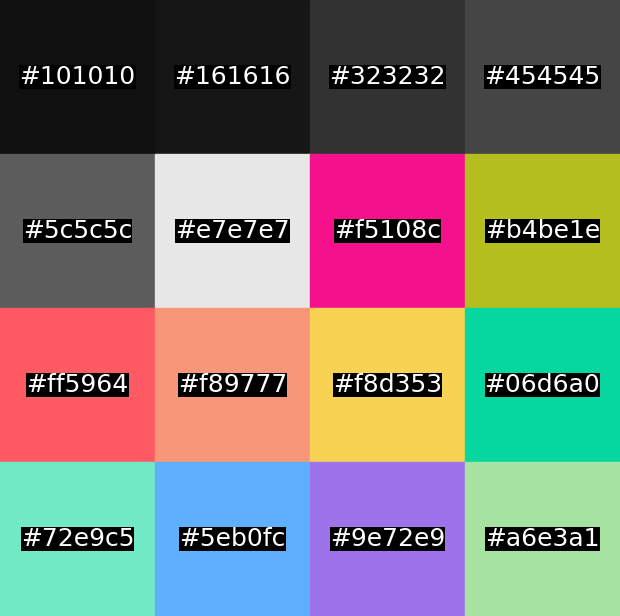
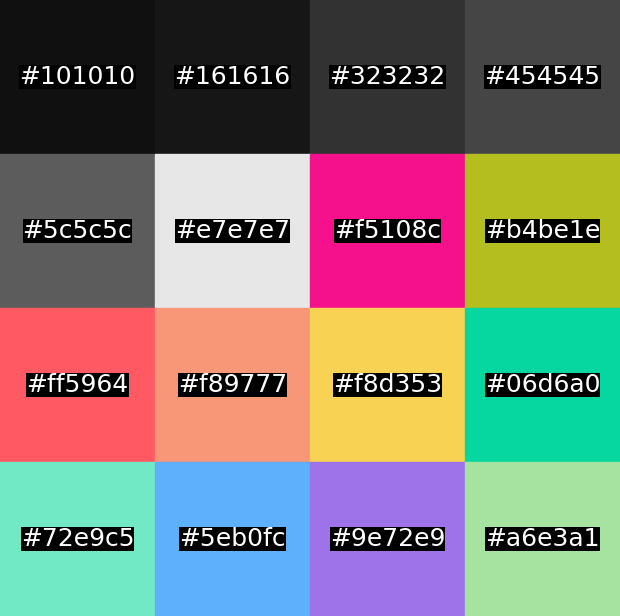
2025-07-19-03-49 added to theme renderer

diff --git a/modules/hm/cosmetic/render.py b/modules/hm/cosmetic/render.py
@@ -15,15 +15,18 @@ def render_colours(colours: list, output_file: str="theme.png"):
     for i,colour in enumerate(colours):
         row, col = divmod(i, 4)
         ax.add_patch(plt.Rectangle((col, -row), 1, -1, color=colour))
-        ax.text(col + 0.5, -row - 0.5, colour, ha='center', va='center', fontsize=18, color='white', bbox=dict(facecolor='black', edgecolor='none', boxstyle='square,pad=0.'))
+        ax.text(col + 0.5, -row - 0.5, colour, ha='center', va='center',
+            fontsize=18, color='white', bbox=dict(facecolor='black', edgecolor='none', boxstyle='square,pad=0.'))
     ax.set_xlim(0, 4)
     ax.set_ylim(-4, 0)
     ax.set_xticks([])
     ax.set_yticks([])
     ax.set_frame_on(False)
-    plt.savefig("theme", bbox_inches='tight', pad_inches=0)
+    plt.savefig(output_file, bbox_inches='tight', pad_inches=0)
     ax.clear()
     fig.clear()
 
 if __name__=="__main__":
-    render_colours(read_colours())
+    base_path = "/home/sam/dotfiles/modules/hm/cosmetic/"
+    colours = read_colours(base_path+"theme.toml")
+    render_colours(colours, base_path+"theme.png")
